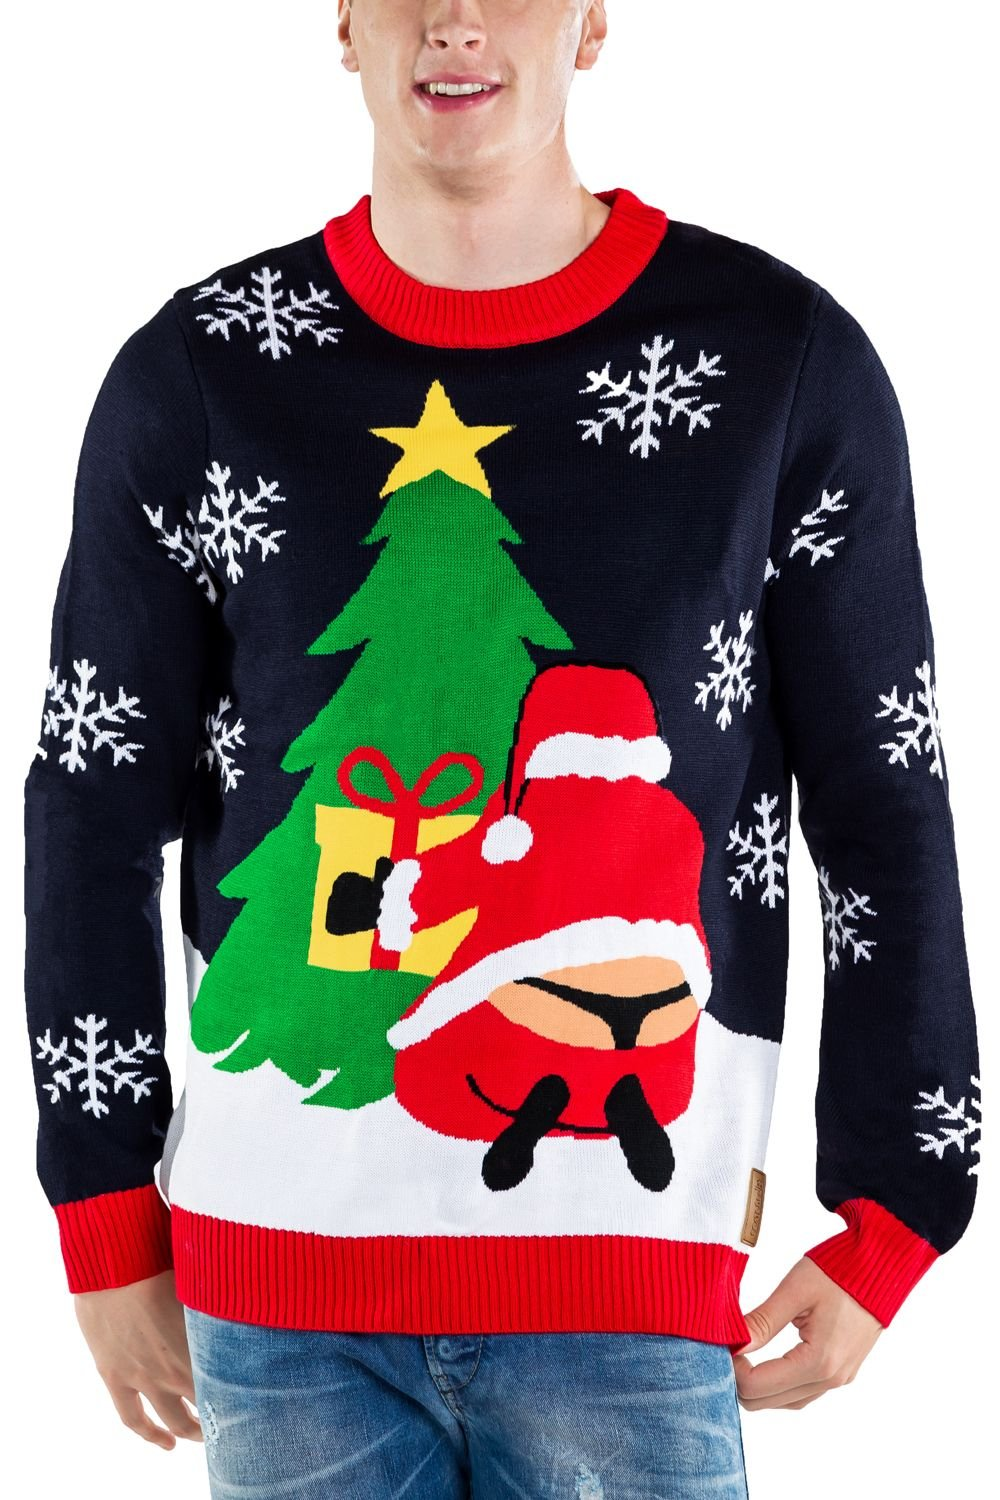
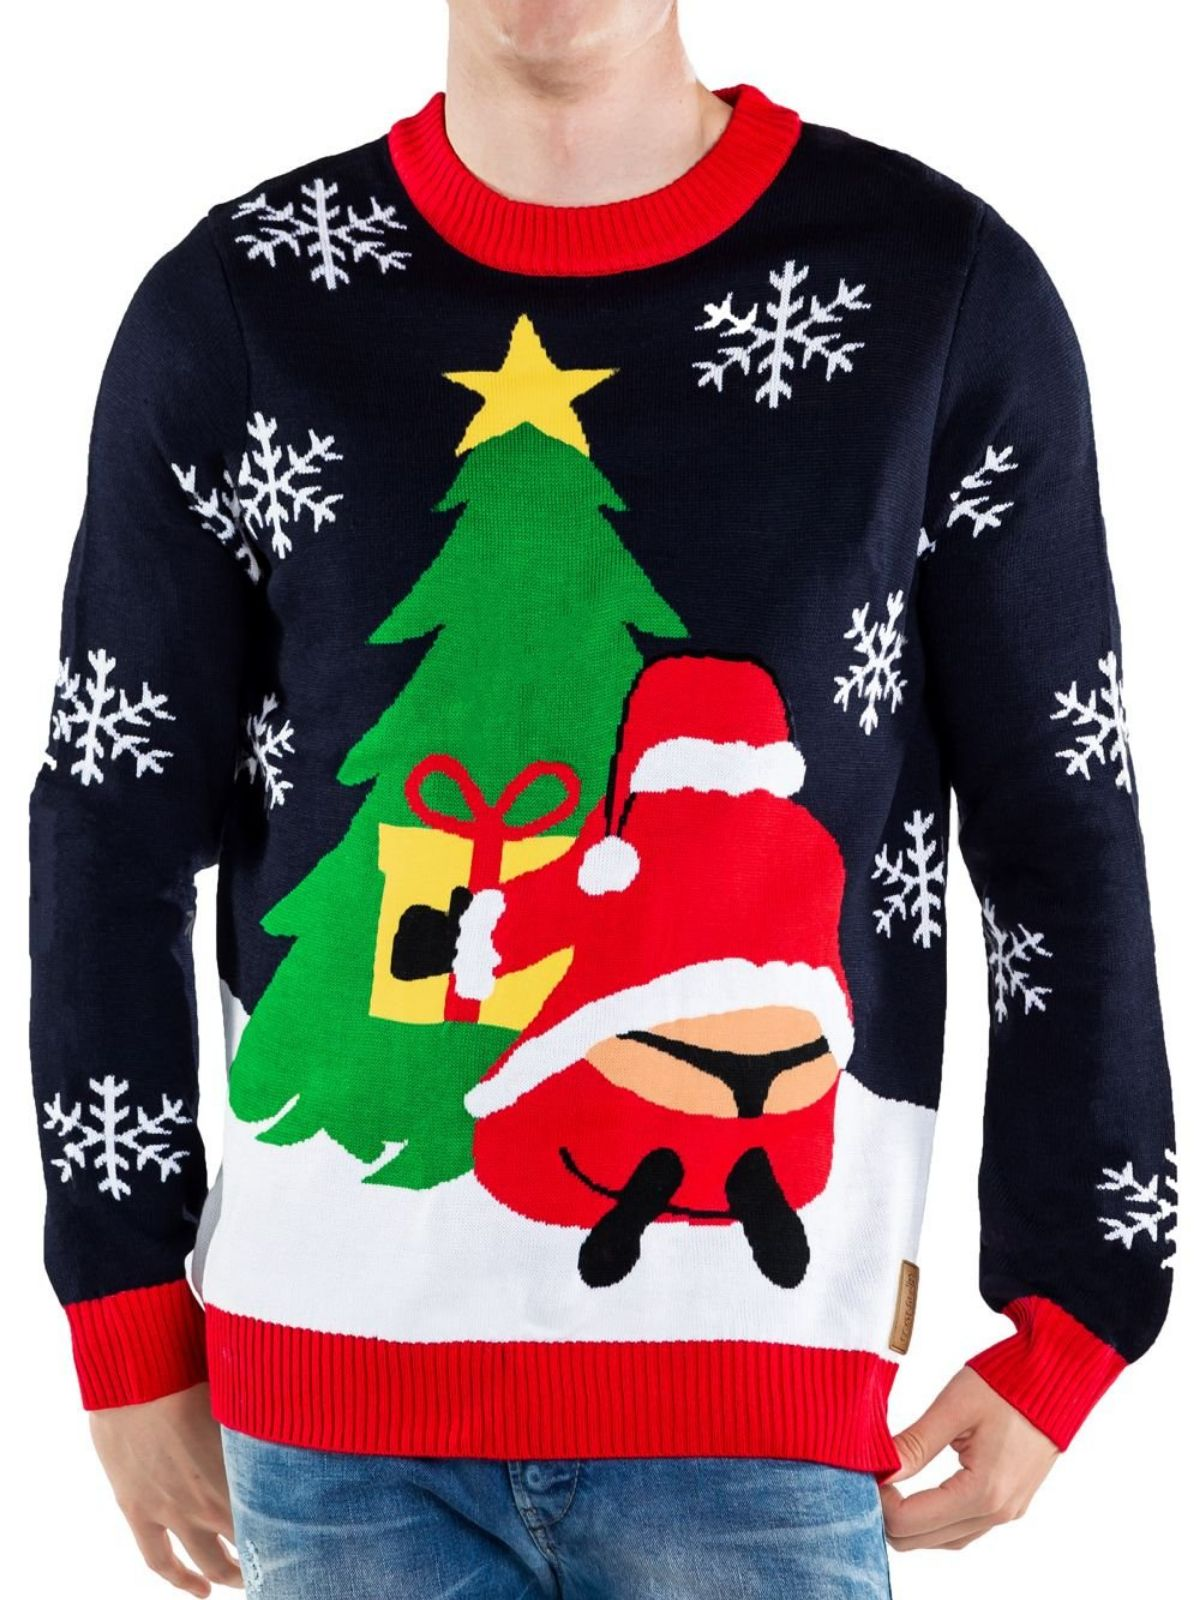
Cropped pictures and re-aligned checkboxes

diff --git a/style.css b/style.css
@@ -289,24 +289,19 @@ span {font-weight: bold;}
 
 /*CHECBOX*/
 
-input[type=checkbox]
-{
-  /* Double-sized Checkboxes */
-  -ms-transform: scale(1.25); /* IE */
-  -moz-transform: scale(1.25); /* FF */
-  -webkit-transform: scale(1.25); /* Safari and Chrome */
-  -o-transform: scale(1.25); /* Opera */
-  transform: scale(1.25);
-  padding: 10px;
-}
-
 .checkboxes {
     text-align: center;
     margin-top: 3%;
+    margin-left: 30%;
+}
+
+.checkboxes form {
+    text-align: center;
 }
 
 .checkboxes h2 {
     text-transform: capitalize;
+    text-align: center;
     font-size: 1.80em;
     font-weight: 400;
 }
@@ -324,10 +319,21 @@ input[type=checkbox]
     font-weight: 300;
 }
 
+input[type=checkbox]
+{
+  /* Double-sized Checkboxes */
+  -ms-transform: scale(1.25); /* IE */
+  -moz-transform: scale(1.25); /* FF */
+  -webkit-transform: scale(1.25); /* Safari and Chrome */
+  -o-transform: scale(1.25); /* Opera */
+  transform: scale(1.25);
+  padding: 10px;
+}
+
 input[type=checkbox]:checked + label {
     color: #DF1531;
     font-style: italic;
-}
+} 
 
 
 /*PRODUCTS*/
@@ -462,7 +468,7 @@ form{
     }
 }
 
-input{
+footer input{
     width: 100%;
     height: 50px;
     margin-bottom: 1rem;

diff --git a/product.html b/product.html
@@ -5,7 +5,7 @@
     <meta charset="UTF-8">
     <meta name="viewport" content="width=device-width, initial-scale=1.0">
     <link rel="stylesheet" href="style.css">
-    <title>Document</title>
+    <title>Ugly Sweaters</title>
 </head>
 <body>
         <!-- NAVBAR -->
@@ -44,7 +44,7 @@
         <h1 class="banner">Our Products</h1>
         <div class="checkboxes">
             <form class="ac-custom ac-checkbox ac-cross">
-                <h2>Select your desired sizes</h2>
+                <h2>Select your desired sizes</h2><br>
             <ul>
                 <li><input type="checkbox" id="extrasmall" name="extrasmall" value="xs"><label for="extrasmall"> XS</label></li>
                 <li><input type="checkbox" id="small" name="small" value="s"><label for="small"> S</label></li>
